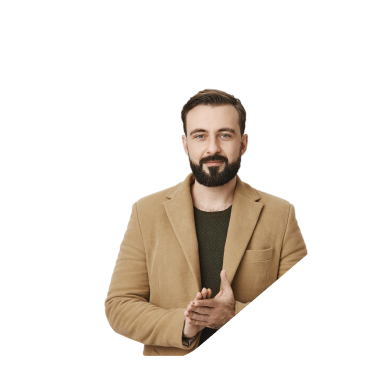
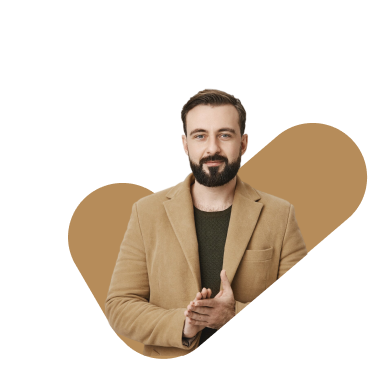
file uploaded

diff --git a/src/components/HomaPage/Experience.jsx b/src/components/HomaPage/Experience.jsx
@@ -14,11 +14,22 @@ const Experience = () => {
                 </div>
             </div>
             <div>
-            <Image src='/logo.png' height={100} width={100} alt='Blog Icon' />
+                <Image src='/logo.png' height={100} width={100} alt='Blog Icon' />
             </div>
-            <div className='grid grid-cols-1 lg:grid-cols-2'>
-                <div></div>
-                <div></div>
+            <div className='grid grid-cols-1 lg:grid-cols-2 gap-5 content-center'>
+                <div className=''>
+                    <p className='text-[26px] lato mt-10 lg:mt-20'>“ I am incredibly satisfied with the firm’s professionalism and dedication. They kept me informed, supported, and delivered outstanding results. Highly recommend! ”</p>
+                    <div className='flex gap-2 items-center'>
+                        <Image src='/quete.png' height={50} width={50} alt='Blog Icon' />
+                        <div>
+                            <p className='text-xl lato'>Brooklyn Simmons</p>
+                            <p className='text-[14px] lato'>CEO and Founder</p>
+                        </div>
+                    </div>
+                </div>
+                <div className='w-full mx-auto'>
+                    <Image className='mx-auto' src='/experience.png' height={400} width={400} alt='Blog Icon' />
+                </div>
 
             </div>
         </section>

diff --git a/src/app/globals.css b/src/app/globals.css
@@ -33,3 +33,6 @@
     background: var(--main-color, #B68C5A);
     color: white;
 }
+.lato {
+    font-family: Lato;
+}
